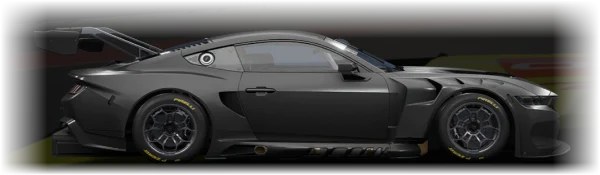
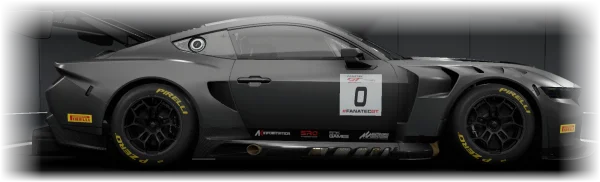
Side views of all 36 GT3, Cup, Super Trofeo and Challenge cars from the showroom; top speeds shown for unrated cars too

diff --git a/web/app/cars/CarsTable.tsx b/web/app/cars/CarsTable.tsx
@@ -22,12 +22,13 @@ const COLUMNS = CAR_PARTS.filter((p) => p.key !== "driveability");
 const DRIVEABILITY = CAR_PARTS.find((p) => p.key === "driveability")!;
 
 function Part({ v, wings }: { v: number | null | undefined; wings?: (number | null)[] }) {
-  if (v == null) return <span className="text-zinc-600">–</span>;
+  const hasWings = !!wings?.some((x) => x != null);
+  if (v == null && !hasWings) return <span className="text-zinc-600">–</span>;
   return (
     <div className="ml-auto w-max min-w-12">
-      <div className="text-right font-semibold"><ScaleNumber v={v} /></div>
-      <PartBar v={v} className="mt-1 h-1" />
-      {wings && wings.some((x) => x != null) && (
+      <div className="text-right font-semibold">{v != null ? <ScaleNumber v={v} /> : <span className="text-zinc-600">–</span>}</div>
+      {v != null && <PartBar v={v} className="mt-1 h-1" />}
+      {hasWings && wings && (
         // Top speed: its two small grey numbers, the absolute top speed in km/h at min wing then max wing
         <div className="mt-1 flex justify-end gap-1.5 whitespace-nowrap text-[10px] leading-none text-zinc-500">
           <span title="Top speed at min wing (km/h)">{wings[0] ?? "–"}</span><span title="Top speed at max wing (km/h)">{wings[1] ?? "–"}</span>

diff --git a/tools/car_images/process.py b/tools/car_images/process.py
@@ -1,14 +1,21 @@
 """Car pictures for the Cars pages (user's request, 2026-10-08): ACC screenshots only (the user's choice,
 no commercial pictures).
 
-  python tools/car_images/process.py <car key> --side aero_tab.png [--bg nice_shot.png]
+  python tools/car_images/process.py <car key> --side shot.png [--source showroom|aero] [--bg nice_shot.png]
+  python tools/car_images/process.py --batch <folder> --order <file>     many cars at once
 
---side: a screenshot of the game's setup screen, Aero tab: every car is shown there side-on, nose to
-        the right, at the same place and scale. The car is cut out of the darkened background
-        (GrabCut inside the box where the game draws it, for the crop), its edges faded out, saved as:
-        web/public/media/cars/side/<car>.webp (600 px wide).
---bg:   any good in-game shot of the car, cropped to 12:5 and saved as the car page's background:
-        web/public/media/cars/bg/<car>.webp (1920 x 800).
+--side: a side-on screenshot of the car, nose to the right:
+        showroom (default): the game's Showroom, car on the turntable filling the width (the user's
+                  2026-10-09 set, 1920 x 1200);
+        aero:     the setup screen's Aero tab, taken before the coloured airflow lines appear.
+        The car is found with GrabCut (on a third of the size: full size took minutes), then the
+        picture is cropped around it with faded edges and the surroundings darkened a little: a hard
+        cut-out was tried and dropped (the cars are dark grey on a dark grey showroom: it lost rear
+        wings and kept patches of wall and floor; a median "empty showroom" of all shots failed too,
+        the cars overlap too much). Saved as web/public/media/cars/side/<car>.webp (600 px wide).
+--bg:   any good in-game shot of the car, cropped to 12:5: web/public/media/cars/bg/<car>.webp (1920 x 800).
+--batch/--order: every .png of the folder sorted by name, matched line by line with the car keys of
+        the order file (one key per line), all as --side.
 Then web/lib/car-images.json says which pictures exist (with a version for the browser cache).
 Needs opencv-python-headless and numpy (CV_PATH: a folder they are installed in, if not in the venv).
 """
@@ -20,49 +27,61 @@ import numpy as np
 ROOT = os.path.dirname(os.path.dirname(os.path.dirname(os.path.abspath(__file__))))
 WEB = os.path.join(ROOT, "web")
 MANIFEST = os.path.join(WEB, "lib", "car-images.json")
-# Where the Aero tab draws the car, as fractions of the screenshot (checked at 1920 x 1200, ACC 1.10.4)
-CAR_BOX = (0.06, 0.50, 0.66, 0.762)   # left, top, right, bottom (above the "Front aero variation" box)
+# Where the car can be, as fractions of the screenshot (left, top, right, bottom), and the part that
+# is surely the car (its doors)
+BOXES = {
+    "showroom": ((0.003, 0.10, 0.997, 0.78), (0.25, 0.40, 0.75, 0.58)),
+    "aero": ((0.06, 0.50, 0.66, 0.762), (0.20, 0.59, 0.50, 0.69)),   # above the "Front aero variation" box
+}
 
 
-def cut_side(path: str, out: str, flip: bool):
-    img = cv2.imread(path)
-    if img is None: raise SystemExit(f"cannot read {path}")
+def find_car(img, source: str):
+    """Bounding box (x, y, w, h) of the car, found by GrabCut on a third of the size."""
     h, w = img.shape[:2]
-    l, t, r, b = (int(CAR_BOX[0] * w), int(CAR_BOX[1] * h), int(CAR_BOX[2] * w), int(CAR_BOX[3] * h))
-    mask = np.full((h, w), cv2.GC_BGD, np.uint8)
-    mask[t:b, l:r] = cv2.GC_PR_FGD
-    # Surely the car: the band between the wheels
-    cy, cx = (t + b) // 2, (l + r) // 2
-    mask[cy - int(0.04 * h): cy + int(0.06 * h), cx - int(0.14 * w): cx + int(0.14 * w)] = cv2.GC_FGD
+    s = 3
+    small = cv2.resize(img, (w // s, h // s), interpolation=cv2.INTER_AREA)
+    sh, sw = small.shape[:2]
+    (l, t, r, b), (fl, ft, fr, fb) = BOXES[source]
+    mask = np.full((sh, sw), cv2.GC_BGD, np.uint8)
+    mask[int(t * sh):int(b * sh), int(l * sw):int(r * sw)] = cv2.GC_PR_FGD
+    mask[int(ft * sh):int(fb * sh), int(fl * sw):int(fr * sw)] = cv2.GC_FGD
     bgd, fgd = np.zeros((1, 65), np.float64), np.zeros((1, 65), np.float64)
-    cv2.grabCut(img, mask, None, bgd, fgd, 8, cv2.GC_INIT_WITH_MASK)
+    cv2.grabCut(small, mask, None, bgd, fgd, 5, cv2.GC_INIT_WITH_MASK)
     car = np.where((mask == cv2.GC_FGD) | (mask == cv2.GC_PR_FGD), 255, 0).astype(np.uint8)
-    car = cv2.morphologyEx(car, cv2.MORPH_OPEN, np.ones((5, 5), np.uint8))
-    car = cv2.morphologyEx(car, cv2.MORPH_CLOSE, np.ones((7, 7), np.uint8))
+    car = cv2.morphologyEx(car, cv2.MORPH_OPEN, np.ones((3, 3), np.uint8))
     n, lab, stats, _ = cv2.connectedComponentsWithStats(car)
     k = 1 + int(np.argmax(stats[1:, cv2.CC_STAT_AREA]))
     car = np.where(lab == k, 255, 0).astype(np.uint8)
     x, y, bw, bh = cv2.boundingRect(car)
-    # The setup screen's cars are dark grey on a dark, blurred scene: a hard cut-out keeps patches of
-    # it. Instead a tight crop whose edges fade out (the site is dark too), the scene darkened a little.
+    return x * s, y * s, bw * s, bh * s, cv2.resize(car, (w, h), interpolation=cv2.INTER_LINEAR)
+
+
+def side_view(path: str, out: str, source: str, flip: bool):
+    img = cv2.imread(path)
+    if img is None: raise SystemExit(f"cannot read {path}")
+    h, w = img.shape[:2]
+    x, y, bw, bh, car = find_car(img, source)
     px, py = int(0.02 * bw), int(0.06 * bh)
     x, y = max(0, x - px), max(0, y - py)
     bw, bh = min(w - x, bw + 2 * px), min(h - y, bh + 2 * py)
+    # GrabCut sometimes takes the floor or the turntable's ring too: a side view is never taller than
+    # 0.34 × its length (wing included), so the extra is cut from the bottom
+    bh = min(bh, int(0.34 * bw))
     crop = img[y:y + bh, x:x + bw]
+    # Faded edges: left and right, the top, gently at the bottom so the tyres stay
     fx, fy = np.ones(bw, np.float32), np.ones(bh, np.float32)
-    ex, ey = int(0.08 * bw), int(0.22 * bh)
+    ex, ey = int(0.07 * bw), int(0.20 * bh)
     fx[:ex] = np.linspace(0, 1, ex); fx[-ex:] = np.linspace(1, 0, ex)
-    fy[:ey] = np.linspace(0, 1, ey); fy[-(ey // 3):] = np.linspace(1, 0, ey // 3)   # gentle at the bottom: the tyres stay
+    fy[:ey] = np.linspace(0, 1, ey); fy[-(ey // 3):] = np.linspace(1, 0, ey // 3)
     fade = np.outer(fy, fx)
-    soft = cv2.GaussianBlur(car[y:y + bh, x:x + bw], (31, 31), 0).astype(np.float32) / 255
-    rgb = (crop.astype(np.float32) * (0.55 + 0.45 * soft[..., None])).astype(np.uint8)
+    # The surroundings darkened a little, so the car reads first
+    soft = cv2.GaussianBlur(car[y:y + bh, x:x + bw], (41, 41), 0).astype(np.float32) / 255
+    rgb = (crop.astype(np.float32) * (0.5 + 0.5 * soft[..., None])).clip(0, 255).astype(np.uint8)
     rgba = np.dstack([rgb, (255 * fade).astype(np.uint8)])
     if flip: rgba = cv2.flip(rgba, 1)
     rgba = cv2.resize(rgba, (600, int(round(bh * 600 / bw))), interpolation=cv2.INTER_AREA)
     os.makedirs(os.path.dirname(out), exist_ok=True)
-    cv2.imwrite(out, rgba, [cv2.IMWRITE_WEBP_QUALITY, 88])
-    prev = img.copy(); cv2.rectangle(prev, (x, y), (x + bw, y + bh), (0, 0, 255), 2)
-    cv2.imwrite(os.path.join(os.environ.get("TEMP", "."), "car_side_preview.jpg"), cv2.resize(prev, (w // 2, h // 2)))   # check the crop
+    cv2.imwrite(out, rgba, [cv2.IMWRITE_WEBP_QUALITY, 86])
     return rgba.shape
 
 
@@ -80,21 +99,35 @@ def background(path: str, out: str):
 
 def main():
     p = argparse.ArgumentParser(description="Car pictures from ACC screenshots")
-    p.add_argument("car", help="ACC car key, e.g. ford_mustang_gt3 (web/lib/cars.ts)")
-    p.add_argument("--side", help="screenshot of the setup screen's Aero tab")
+    p.add_argument("car", nargs="?", help="ACC car key, e.g. ford_mustang_gt3 (web/lib/cars.ts)")
+    p.add_argument("--side", help="side-on screenshot of the car")
+    p.add_argument("--source", choices=sorted(BOXES), default="showroom", help="where the side shot comes from")
     p.add_argument("--bg", help="in-game shot for the car page's background")
     p.add_argument("--flip", action="store_true", help="mirror the side view (nose must point right)")
+    p.add_argument("--batch", help="folder of side shots (sorted by name), with --order")
+    p.add_argument("--order", help="file with one car key per line, in the folder's order")
     a = p.parse_args()
     manifest = json.load(open(MANIFEST, encoding="utf-8")) if os.path.exists(MANIFEST) else {}
-    entry = manifest.get(a.car, {})
     v = int(time.time())
-    if a.side:
-        shape = cut_side(a.side, os.path.join(WEB, "public", "media", "cars", "side", f"{a.car}.webp"), a.flip)
-        entry["side"] = v; print("side view", shape[1], "x", shape[0])
-    if a.bg:
-        background(a.bg, os.path.join(WEB, "public", "media", "cars", "bg", f"{a.car}.webp"))
-        entry["bg"] = v; print("background 1920 x 800")
-    manifest[a.car] = entry
+    jobs = []
+    if a.batch:
+        files = sorted(f for f in os.listdir(a.batch) if f.lower().endswith(".png"))
+        keys = [k.strip() for k in open(a.order, encoding="utf-8") if k.strip()]
+        if len(files) != len(keys): raise SystemExit(f"{len(files)} pictures but {len(keys)} cars")
+        jobs = [(k, os.path.join(a.batch, f), None) for k, f in zip(keys, files)]
+    elif a.car:
+        jobs = [(a.car, a.side, a.bg)]
+    else:
+        p.error("give a car key or --batch")
+    for car, side, bg in jobs:
+        entry = manifest.get(car, {})
+        if side:
+            shape = side_view(side, os.path.join(WEB, "public", "media", "cars", "side", f"{car}.webp"), a.source, a.flip)
+            entry["side"] = v; print(f"{car}: side view {shape[1]} x {shape[0]}")
+        if bg:
+            background(bg, os.path.join(WEB, "public", "media", "cars", "bg", f"{car}.webp"))
+            entry["bg"] = v; print(f"{car}: background 1920 x 800")
+        manifest[car] = entry
     with open(MANIFEST, "w", encoding="utf-8") as f: json.dump(dict(sorted(manifest.items())), f, indent=1); f.write("\n")
 
 

diff --git a/CLAUDE.md b/CLAUDE.md
@@ -977,15 +977,18 @@ web/app/api/events/, web/app/api/results/, web/components/LocalTime.tsx, and the
   in the list and on the car page.
 - `components/InfoTip.tsx`: the "i" box shared by the Drivers and Cars tables.
 - Car pictures (user's request, a teammate's idea, 2026-10-08; ACC screenshots only, the user's choice):
-  `tools/car_images/process.py <car> --side <png> [--bg <png>]` → `public/media/cars/side/<car>.webp`
-  (600 px, from the setup screen's **Aero tab**: every car side-on, nose right, same place; cropped
-  around the car found by GrabCut, edges faded: a hard cut-out kept patches of the dark scene, the
-  setup cars being dark grey) and `public/media/cars/bg/<car>.webp` (1920 × 800 background), listed in
-  `lib/car-images.json` (with a cache version). The Aero tab's coloured airflow lines appear after a
-  moment: take the shot before (the BMW and Porsche shots of 2026-10-08 had them, unused). Shown: side
-  view beside the name on the car page and under the rank number in the list (brightened in CSS), the
-  background faded behind the car page's header. Cars without pictures show none. Only the Mustang
-  has a side view so far (from the user's Aero screenshot).
+  side views of the 36 GT3 / Cup / Super Trofeo / Challenge cars from the user's Showroom screenshots
+  (2026-10-09, `DesktopACCSIDE_PROFILES`, in the game's car-selection order: `tools/car_images/
+  showroom-order-2026-10-09.txt`; GT4, GT2 and the M2 not done). `tools/car_images/process.py` (one car or
+  `--batch`): GrabCut on a third of the size finds the car, then a crop with faded edges and darkened
+  surroundings, at most 0.34 × the length high (the floor and turntable ring were taken otherwise) →
+  `public/media/cars/side/<car>.webp` (600 px); `--bg` → `public/media/cars/bg/<car>.webp`; listed in
+  `lib/car-images.json`. Hard cut-outs were tried and dropped (dark grey cars in a dark grey showroom:
+  lost rear wings, kept wall patches; a median "empty showroom" failed too, the cars overlap). Shown:
+  under the rank number in the list (brightened in CSS), beside the name on the car page; backgrounds
+  (none yet) behind the car page's header.
+- Top speeds (user's tests at Paul Ricard, 2026-10-09, min and max wing, all 36 cars): entered on Neon
+  by the user with an upsert into car_rating; shown in grey under Top speed even for an unrated car.
 - Descriptions (user's request, 2026-10-08, after writing the Ford's own: "Absolute V8 freedom power
   beast..."): `lib/car-notes.ts` holds researched starting texts for the 53 other cars in that short,
   punchy style (Coach Dave Academy, GOSetups, Traxion, GTPlanet, Overtake; only claims about ACC's
